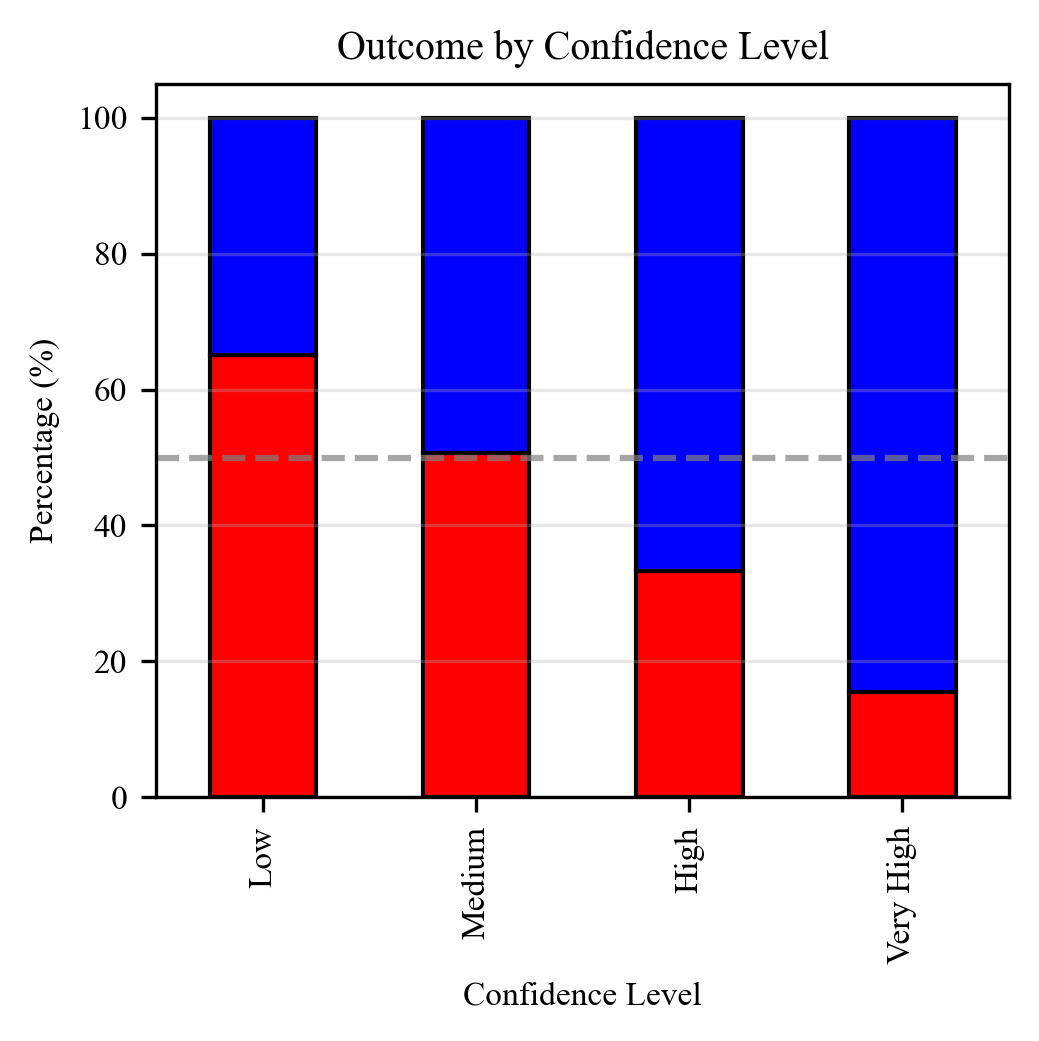
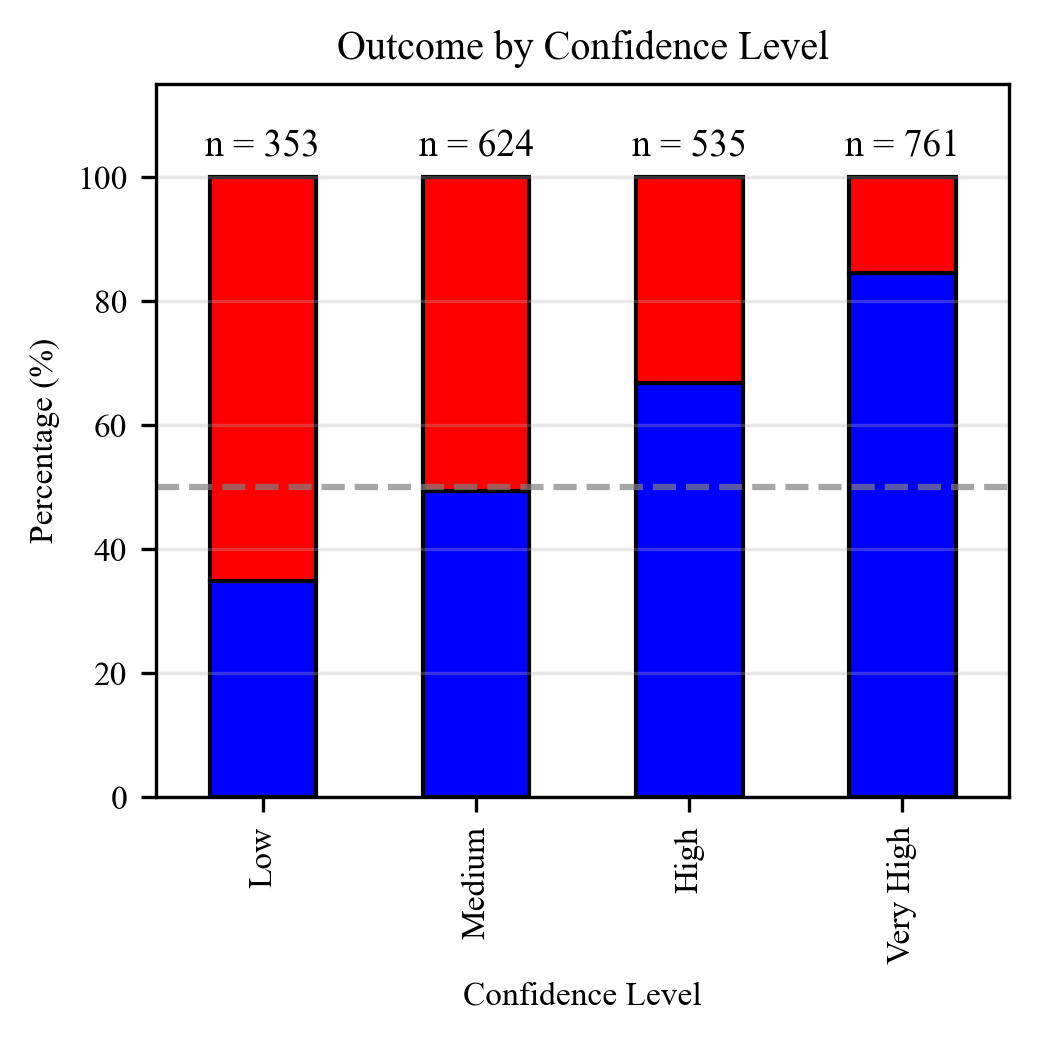
nicer graphs

diff --git a/results-and-visualizations/visualizations.py b/results-and-visualizations/visualizations.py
@@ -12,8 +12,8 @@ plt.rcParams['font.size'] = 8
 RAG_VISUALIZATIONS = False
 
 # Read both dataframes
-mcqa_df = pd.read_csv("medmcqa_results.csv")   # 4 options (probA‑D)
-qa_df   = pd.read_csv("medqa_results.csv")     # 5 options (probA‑E)
+mcqa_df = pd.read_csv("results-and-visualizations/iterative_0.4/medmcqa_results.csv")   # 4 options (probA‑D)
+qa_df   = pd.read_csv("results-and-visualizations/iterative_0.4/medqa_results.csv")     # 5 options (probA‑E)
 
 # Add missing probE column to the 4‑option dataframe
 mcqa_df['probE'] = 0.0
@@ -86,39 +86,25 @@ plt.tight_layout()
 plt.savefig('confidence_density.png', dpi=300, bbox_inches='tight')
 plt.close()
 
-# Overall stacked bar by confidence level
-crosstab = pd.crosstab(
-    df['confidence'],
-    df['result'],
-    normalize='index'
-) * 100
+# Accuracy by Confidence
+counts = df.groupby('confidence', observed=False)['result'].count()
+crosstab = (pd.crosstab(df['confidence'], df['result'], normalize='index') * 100) \
+             .rename(columns={True: 'Correct', False: 'Incorrect'})
 
-crosstab = crosstab.rename(
-    columns={True: 'Correct', False: 'Incorrect'}
-)
+print(crosstab['Correct'])
 
-fig, ax = plt.subplots(figsize=(3.5, 3.5))  # ensure ax is defined
+fig, ax = plt.subplots(figsize=(3.5, 3.5))
+crosstab[['Correct', 'Incorrect']].plot(kind='bar', stacked=True, ax=ax,
+                                         color=['blue', 'red'], edgecolor='black')
 
-crosstab[['Incorrect', 'Correct']].plot(
-    kind='bar',
-    stacked=True,
-    ax=ax,
-    color=['red', 'blue'],
-    edgecolor='black'
-)
-
-ax.set_xlabel('Confidence Level')
-ax.set_ylabel('Percentage (%)')
-ax.set_title('Outcome by Confidence Level')
-
-# Remove legend (if you still want it removed)
+ax.set(xlabel='Confidence Level', ylabel='Percentage (%)',
+       title='Outcome by Confidence Level', ylim=(0, 115))
 ax.get_legend().remove()
-
-# 50% reference line
 ax.axhline(y=50, color='gray', linestyle='--', alpha=0.7)
 ax.grid(axis='y', alpha=0.3)
 
-# --- No per‑bar text loop ---
+for i, level in enumerate(crosstab.index):
+    ax.text(i, 102, f'n = {counts.loc[level]}', ha='center', va='bottom', fontsize=9)
 
 plt.tight_layout()
 plt.savefig('accuracy_by_confidence.png', dpi=300, bbox_inches='tight')
